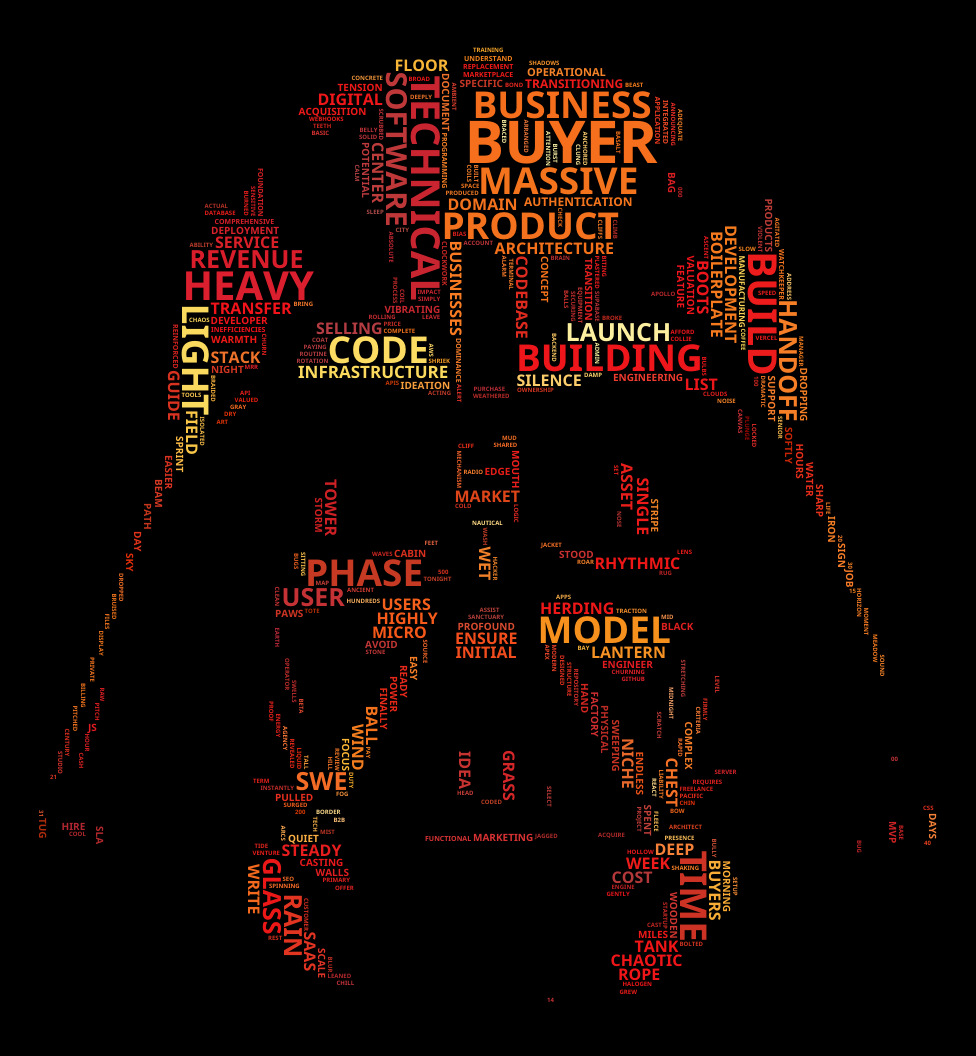
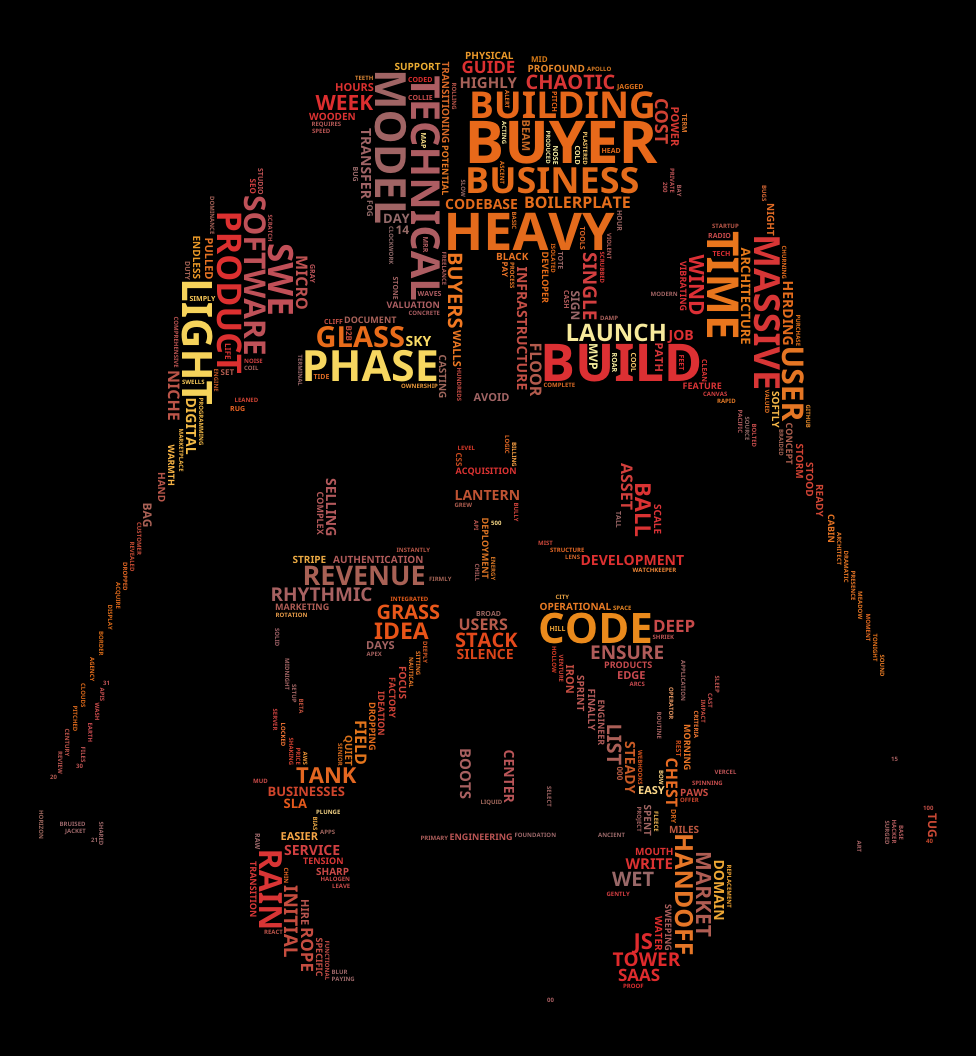
docs: refresh wordcloud examples and clarify descriptions

diff --git a/internal/textutil/words.go b/internal/textutil/words.go
@@ -120,8 +120,8 @@ func MeasureWords(h WordCounts, cfg WordMeasurementConfig) ([]Word, error) {
 				countRange,
 				fontSizeRange,
 			)
-			// Keep the frequency endpoints, but give intermediate counts more
-			// of the available size range before exact-fit placement.
+			// The square root preserves the endpoints while increasing the
+			// target size for intermediate frequencies.
 			ratio := (scaled - cfg.MinFontSize) / (cfg.MaxFontSize - cfg.MinFontSize)
 			size = cfg.MinFontSize + math.Sqrt(ratio)*(cfg.MaxFontSize-cfg.MinFontSize)
 		}

diff --git a/internal/effects/wordcloud/render.go b/internal/effects/wordcloud/render.go
@@ -60,7 +60,7 @@ func canvasColor(darkBackground bool) color.Color {
 }
 
 // sampleWordColor selects a source color from the most prevalent color family
-// beneath the same rectangle used by the existing renderer. This avoids making
+// beneath the word's measured rectangle. This avoids making
 // a muted, artificial blend across differently colored source pixels.
 func sampleWordColor(source image.Image, word PlacedWord) color.NRGBA {
 	width, height := word.Word.Width, word.Word.Height

diff --git a/README.md b/README.md
@@ -49,8 +49,8 @@ transparent background.
 
 The word-cloud pipeline turns a source image into a placement silhouette, sizes
 words by frequency, then packs those words inside the silhouette. Each word
-uses a representative source color beneath its rectangle. A dark image border selects
-bright foreground and a black canvas; other images use dark foreground on white.
+uses a representative source color beneath its rectangle. A dark image border
+selects bright foreground and a black canvas; other images use dark foreground on white.
 This preserves colored highlights and dark interior gaps in images such as
 `testdata/images/darth_vader_og.jpg`. Transparent borders keep dark-foreground
 selection. Border detection is a heuristic; it does not recognize objects.
@@ -146,8 +146,8 @@ free space. At the chosen size, placement favors a less-filled shape region,
 then the configured orientation order (horizontal first by default), then the
 deepest legal center in that region. Each word credits its measured rectangle
 to region coverage, while the free-space mask reserves glyph pixels for larger
-words. A skipped word has no legal
-position in either orientation at the permitted minimum size.
+words. A skipped word has no legal position in either orientation at the
+permitted minimum size.
 
 ## Text mosaic
 

diff --git a/fonts/README.md b/fonts/README.md
@@ -1,12 +1,12 @@
 # Fonts for word clouds
 
-The existing `NotoSansMono-VariableFont_wdth,wght.ttf` gives every character
-roughly the same width. It remains supported by the original example commands.
+`NotoSansMono-VariableFont_wdth,wght.ttf` gives every character roughly the
+same width and is used for the text-mosaic example.
 
 `NotoSans-Bold.ttf` is a proportional bold alternative: letters such as `I`
 occupy less width than `W`, and thicker strokes remain visible at smaller
 preview sizes. Select it with `-font fonts/NotoSans-Bold.ttf`; add `-uppercase`
-for capitalized word-cloud text. Text is converted before measurement, so the
+for uppercase word-cloud text. Text is converted before measurement, so the
 layout accounts for the new letter widths.
 
 The bold font is an unmodified upstream file from the archived
